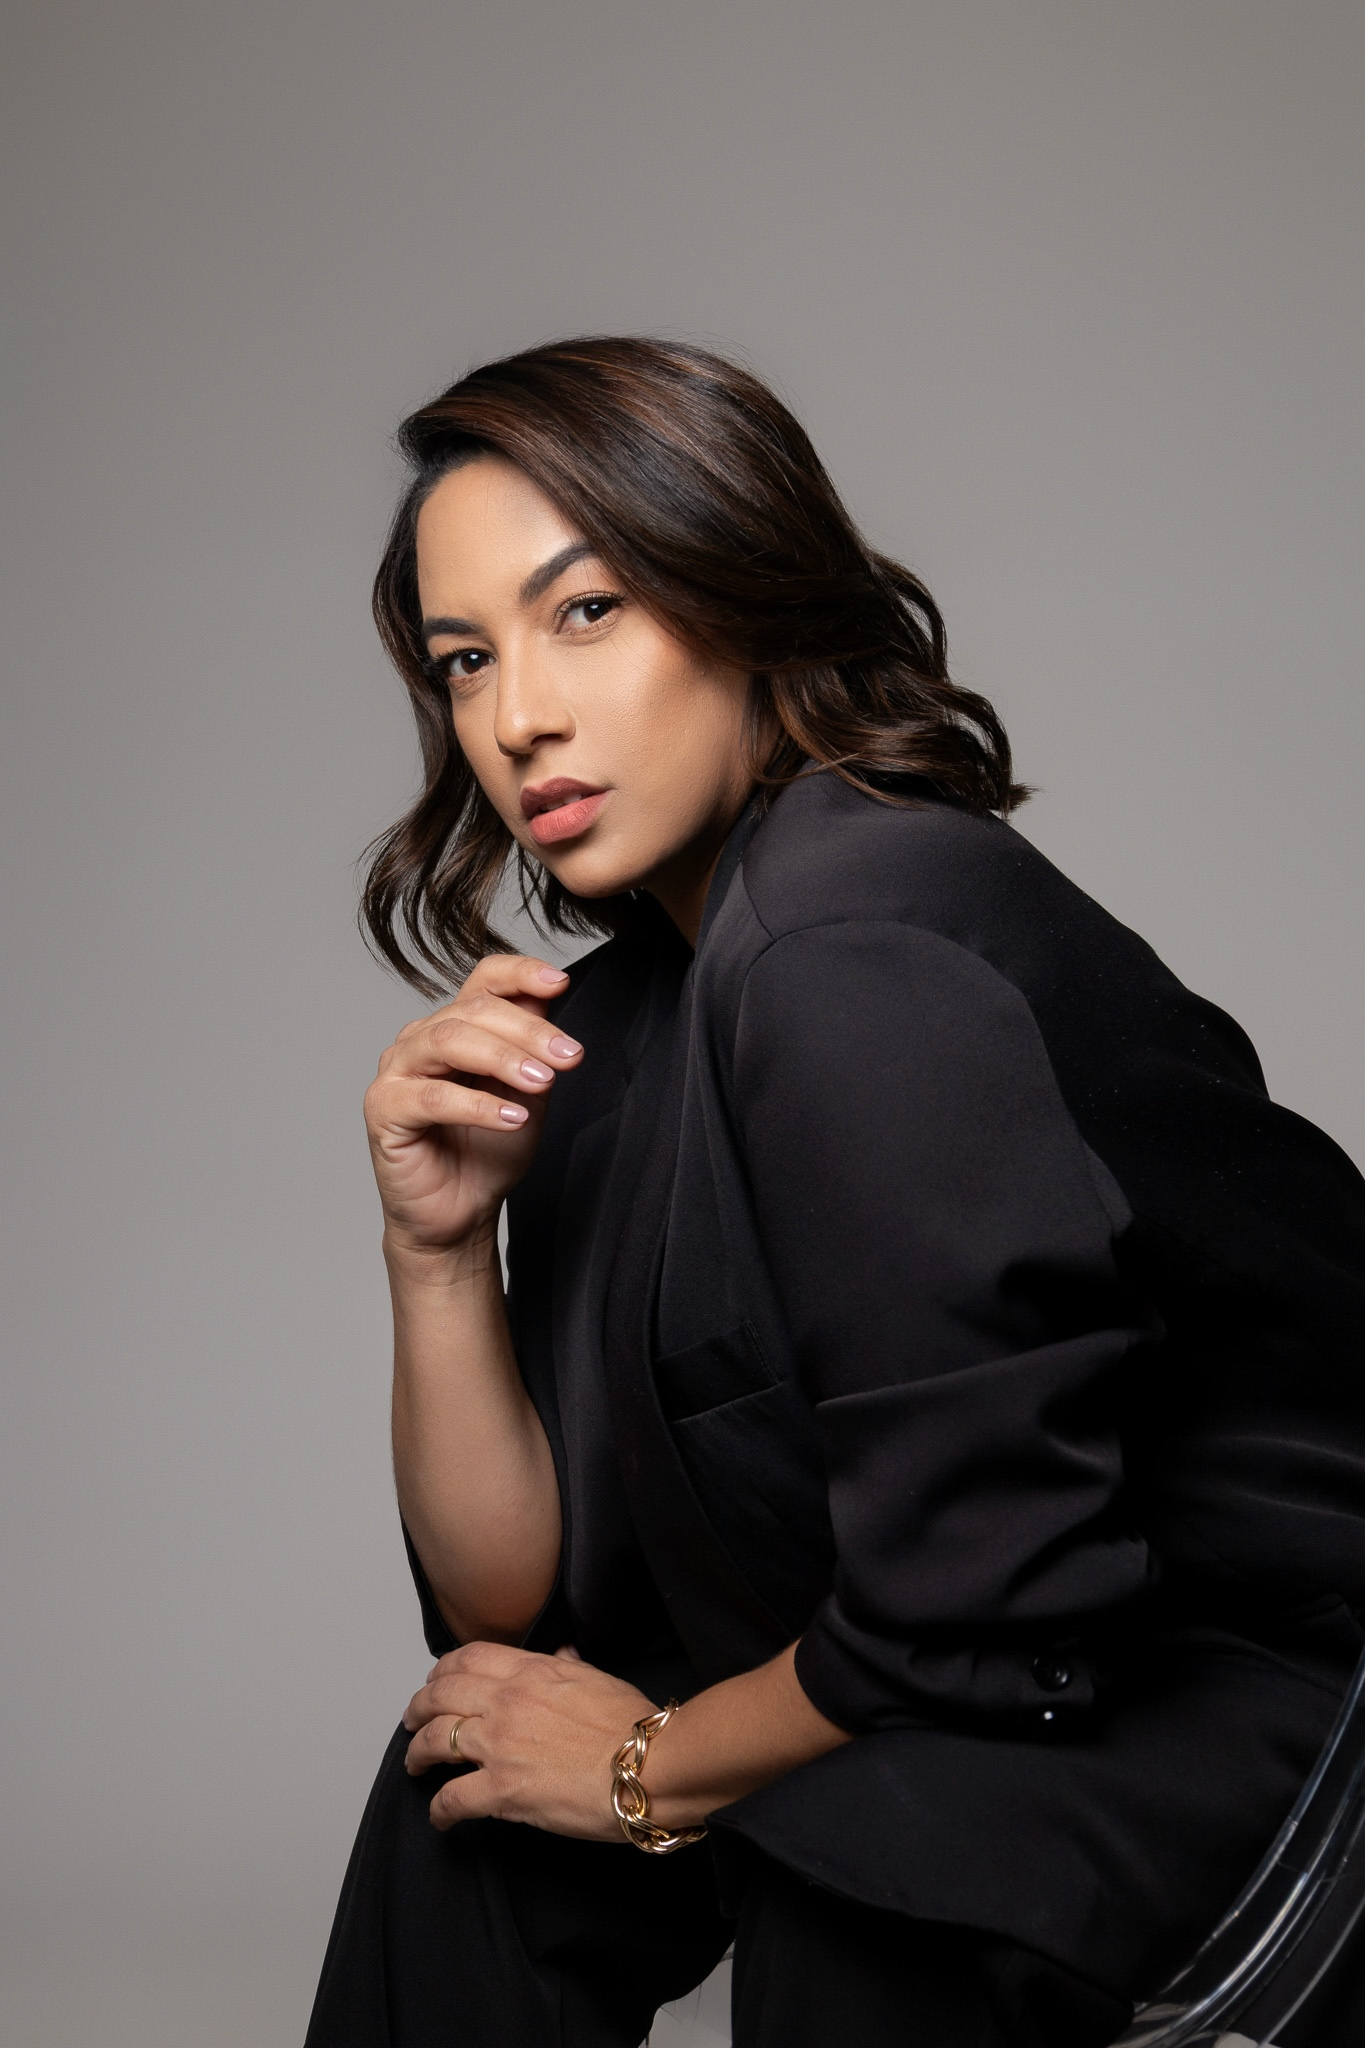
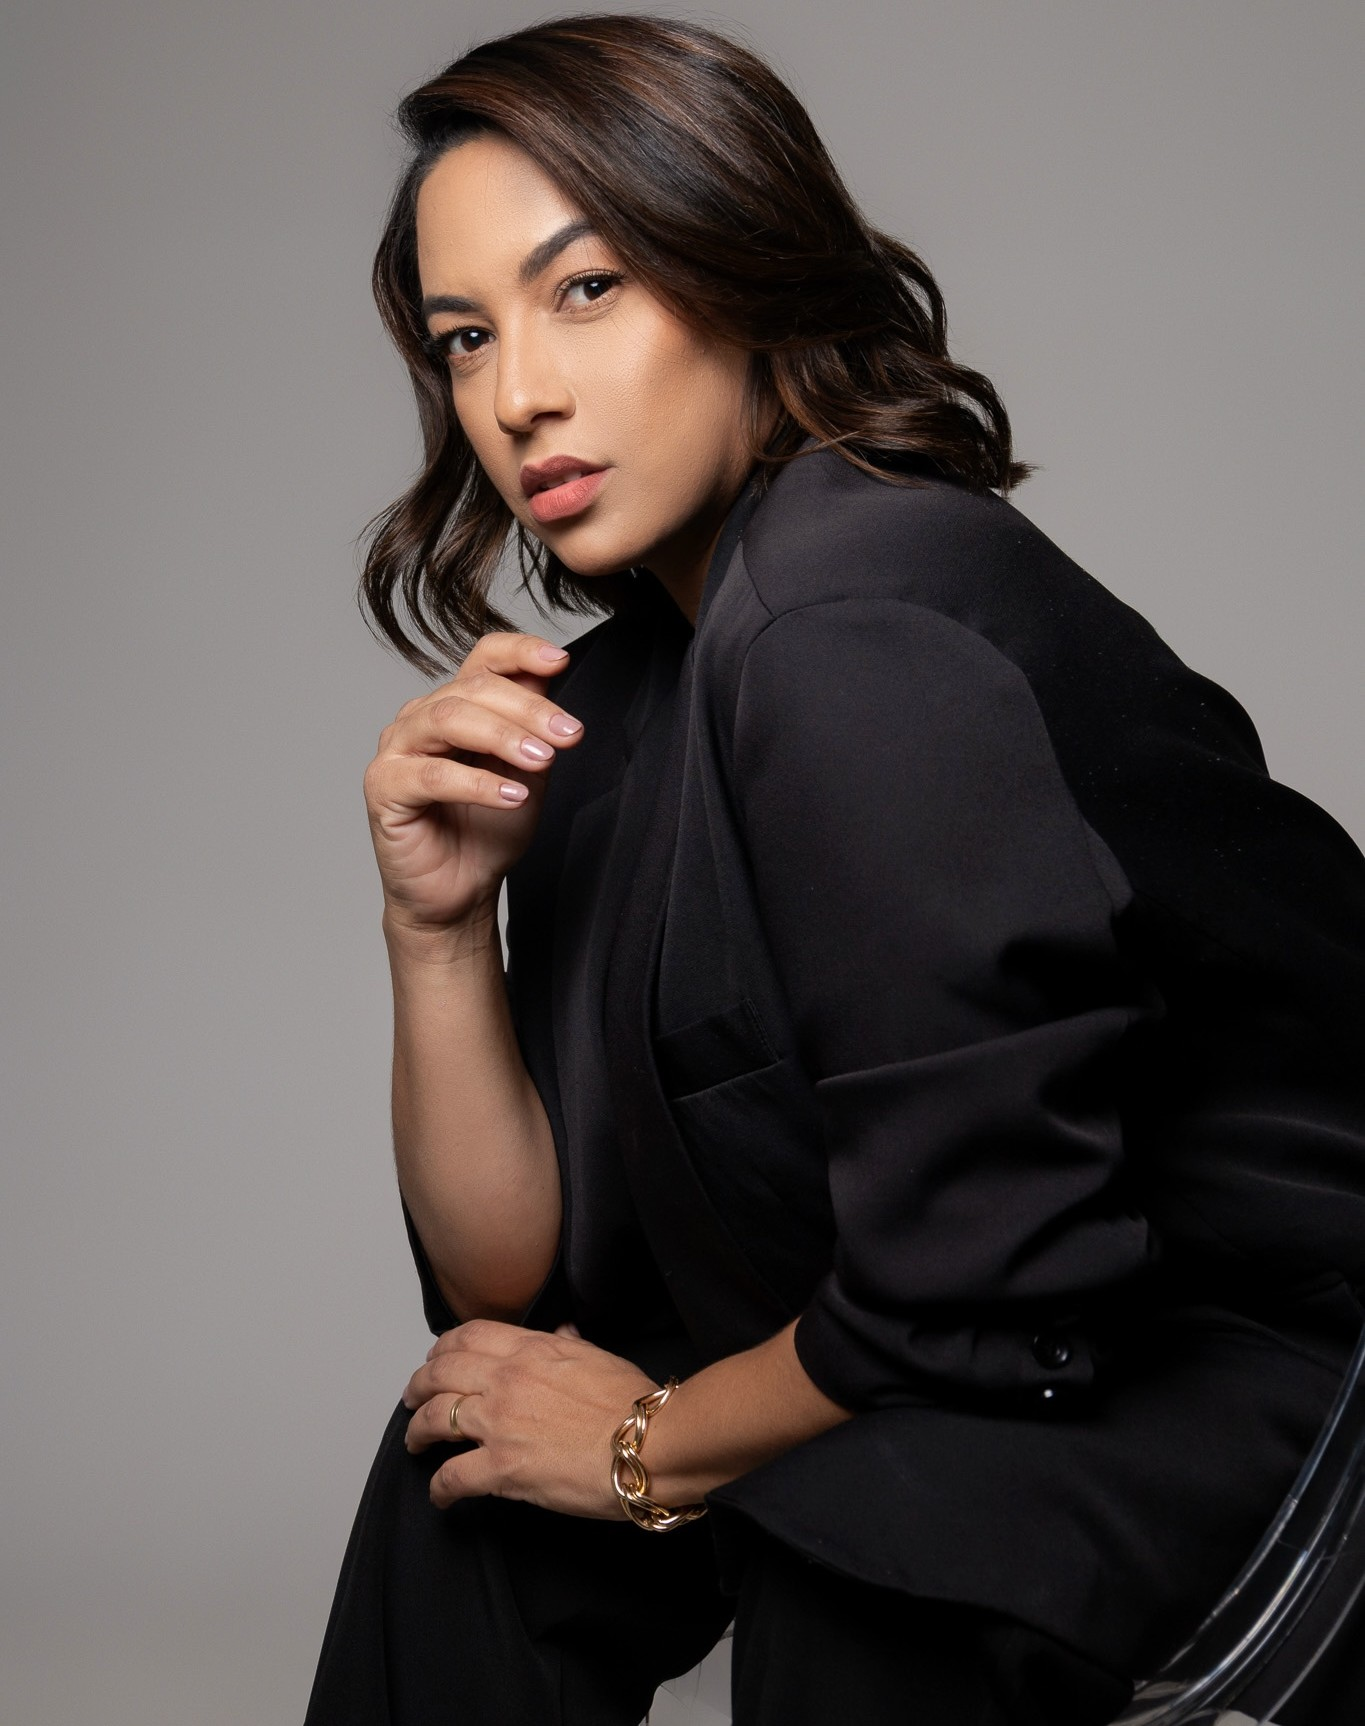
subtitulo

diff --git a/index.html b/index.html
@@ -45,7 +45,7 @@
             
             <div class="card-content">
                 <h3 class="card-title">Tráfego Pago</h3>
-                <p class="card-subtitle">Venda todos os dias</p>
+                <p class="card-subtitle">Com anúncios, seu negócio vende todos os dias sem depender da criação constante de conteúdo,   é previsibilidade e escala para quem quer resultados reais.</p>
                 <button class="cta-button">
                     Quero aumentar meu faturamento
                 </button>
@@ -60,7 +60,7 @@
             
             <div class="card-content">
                 <h3 class="card-title">Posts profissionais</h3>
-                <p class="card-subtitle">Instagram que conecta e vende!</p>
+                <p class="card-subtitle">Posts bem planejados e profissionais não apenas elevam a credibilidade da sua marca, mas também criam um Instagram que conecta de verdade e transforma seguidores em clientes.</p>
                 <button class="cta-button">
                     Preciso desse up no meu Instagram
                 </button>
@@ -75,7 +75,7 @@
             
             <div class="card-content">
                 <h3 class="card-title">Criação de sites e soluções digitais</h3>
-                <p class="card-subtitle">Quero ampliar e escalar</p>
+                <p class="card-subtitle">Transforme sua presença online com um site profissional e soluções digitais inteligentes que elevam sua marca, geram credibilidade e conectam você a mais clientes todos os dias.</p>
                 <button class="cta-button">
                     Quero ampliar e escalar
                 </button>

diff --git a/style.css b/style.css
@@ -106,7 +106,7 @@ body::after {
   width: 100%;
   height: 100vh;
   object-fit: cover;
-  object-position: center 35%;
+  object-position: center 15%;
   filter: contrast(1.1) brightness(0.9) saturate(1.2);
 }
 
@@ -175,6 +175,7 @@ body::after {
   text-shadow: 0 2px 10px rgba(0,0,0,0.8);
   text-transform: uppercase;
   opacity: 0.9;
+  
 }
 
 
@@ -358,12 +359,16 @@ body::after {
 
 
 .card-subtitle {
-  font-size: clamp(14px, 2vw, 20px);
+  font-size: clamp(14px, 2vw, 18px);
   opacity: 0.9;
   font-weight: 400;
-  line-height: 1.4;
+  line-height: 1.6;        /* melhora leitura */
   color: #e5e7eb;
-  max-width: 80%;
+
+  max-width: 460px;       /* largura ideal */
+  margin: 0 auto;         /* centraliza */
+
+  text-align: center;     /* mantém padrão do card */
 }
 
 
@@ -780,8 +785,8 @@ body::after {
 
 
   .hero-descricao p {
-    font-size: 10px;
-    padding: 12px;
+    font-size: 14px;
+    padding: 14px;
   }
 
 
